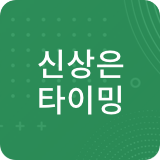
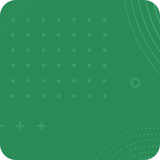
[톡 > 캐스트] 가로 아이콘 이미지와 텍스트 분리

diff --git a/src/scss/pages/_my.scss b/src/scss/pages/_my.scss
@@ -710,7 +710,7 @@ main.brandDetail3 .replyInputBox { margin-top: 64px; }
 .seriesListBox .scrollList li { margin-left: 8px; position: relative; }
 .seriesListBox .scrollList li.new:after { content: ""; display: block; position: absolute; width: 40px; height: 14px; background: url(../img/common/tagNew.png) no-repeat center; top: -4px; right: -4px; background-size: cover; }
 .seriesListBox .scrollList li .blur { transition: opacity 0.5s; opacity: 0; width: 80px; height: 80px; border-radius: 8px; filter: blur(10px); top: 10px; left: 0; position: absolute; }
-.seriesListBox .scrollList li div:nth-child(2) { position: relative; width: 80px; height: 80px; flex: 0 0 auto; background-repeat: no-repeat; background-size: cover; }
+.seriesListBox .scrollList li div:nth-child(2) { position: relative; width: 80px; height: 80px; flex: 0 0 auto; background-repeat: no-repeat; background-size: cover; color: white; font-size: 16px; font-weight: bold; display: flex; align-items: center; justify-content: center; line-height: 19px; text-align: center;}
 .seriesListBox .scrollList li.on .blur { opacity: 0.8; }
 .seriesListBox .scrollList li:nth-child(1) {  margin-left: 0; }
 .seriesListBox .scrollList li.item1 div:nth-child(2) { background-image: url("../img/common/seriesListItem01.png"); margin-left: 0; }	    /* item1 : 신상은타이밍 */

diff --git a/src/html/partial/cast.html b/src/html/partial/cast.html
@@ -7,42 +7,43 @@
 		<ul class="scrollList">
 			<li class="item1 on new">
 				<div class="blur"></div>
-				<div></div>
+				<div>신상은<br />타이밍</div>
 			</li>
 			<li class="item2 new">
 				<div class="blur"></div>
-				<div></div>
+				<div>발색의<br />정석</div>
 			</li>
 			<li class="item3 new">
 				<div class="blur"></div>
-				<div></div>
+				<div>에디터의<br />쇼핑백</div>
 			</li>
 			<li class="item4">
 				<div class="blur"></div>
-				<div></div>
+				<div>세상에<br />이런립이</div>
 			</li>
 			<li class="item5">
 				<div class="blur"></div>
-				<div></div>
+				<div>톤알못</div>
 			</li>
 			<li class="item6">
 				<div class="blur"></div>
-				<div></div>
+				<div>월간<br />잘쓴템</div>
 			</li>
 			<li class="item7">
 				<div class="blur"></div>
-				<div></div>
+				<div>립VS립</div>
 			</li>
 			<li class="item8">
 				<div class="blur"></div>
-				<div></div>
+				<div>브랜드<br />매거진</div>
 			</li>
 			<li class="item9">
 				<div class="blur"></div>
-				<div></div>
+				<div>그 외</div>
 			</li>
 		</ul>
 	</div>
+
 
 	<ul class="seriesCollections">
 		<li class="on">
